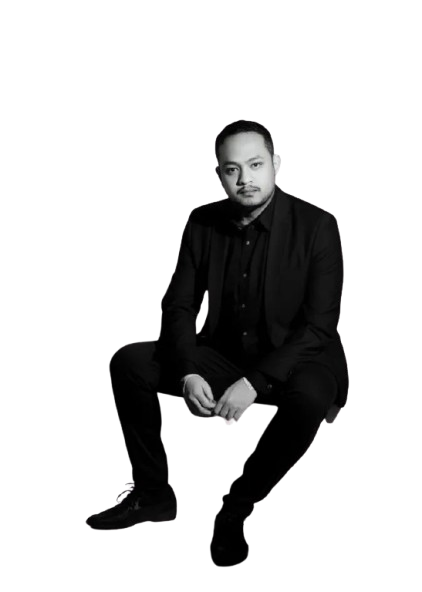
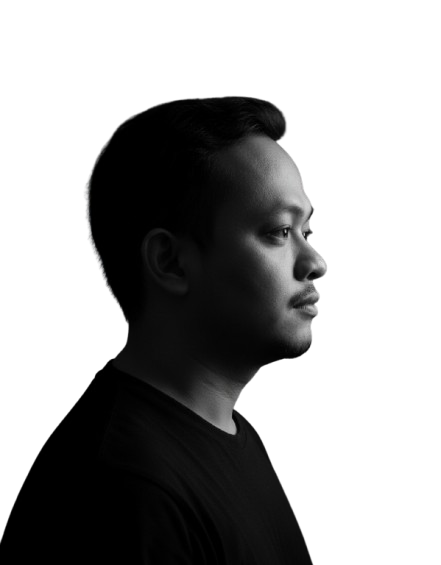
Pesan commit yang menjelaskan perubahanmu

diff --git a/app/page.js b/app/page.js
@@ -11,7 +11,7 @@ import Footer from './components/Footer';
 const portfolioData = {
   name: "Lukman Wijayanto",
   title: "Frontend Developer",
-  photo: "/images/bg-foto.png",
+  photo: "/images/bg-foto1.png",
   socialMedia: [
     { name: "Facebook", icon: "/images/facebook.png", link: "#" },
     { name: "Instagram", icon: "/images/instagram.png", link: "https://instagram.com/lukmanwijaya" },

diff --git a/app/layout.js b/app/layout.js
@@ -12,8 +12,8 @@ const geistMono = Geist_Mono({
 });
 
 export const metadata = {
-  title: "Create Next App",
-  description: "Generated by create next app",
+  title: "Web Portofolio | Lukman Wijayanto",
+  description: "Generated by Lukman Wijayanto",
 };
 
 export default function RootLayout({ children }) {
